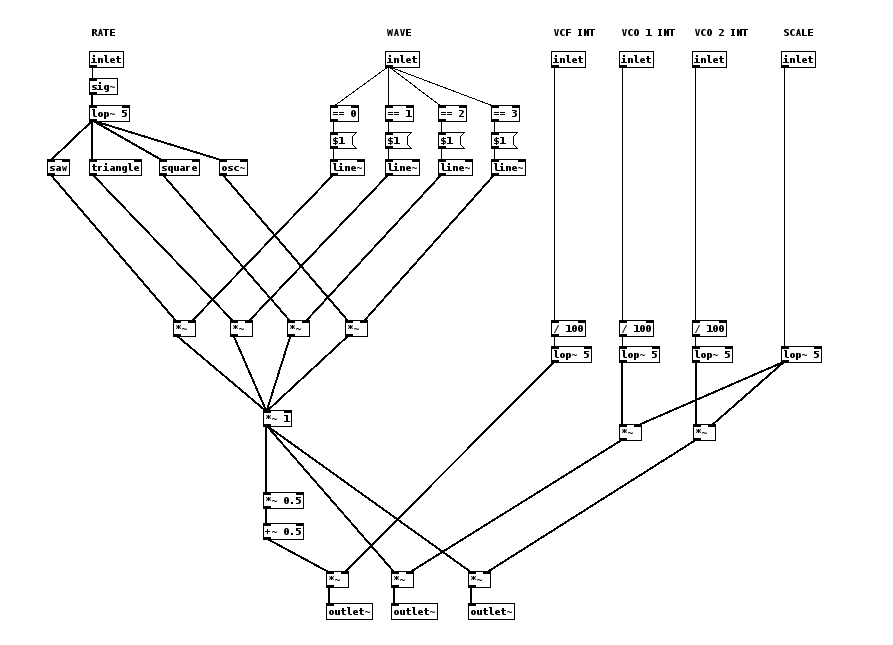
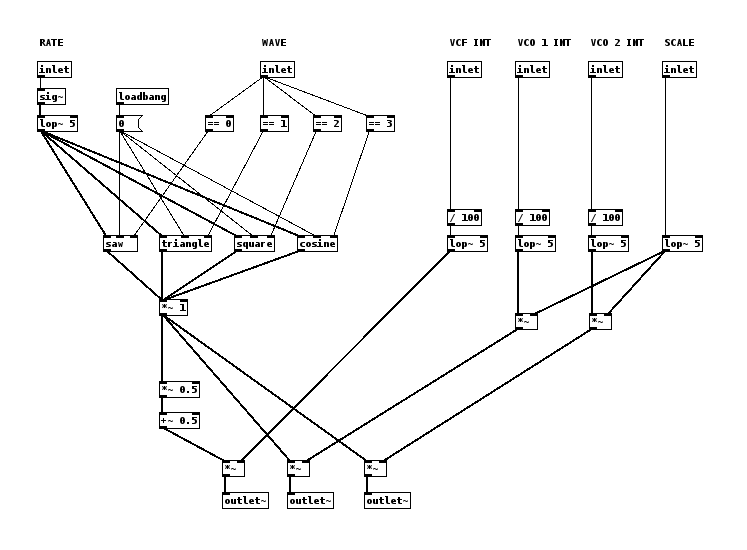
fix(LFO): Update LFO to use updated oscillators and send values to the switch~ objects.

diff --git a/README.md b/README.md
@@ -20,7 +20,7 @@ Polylogue is a polyphonic analogue synthesizer written in Pure Data for the [Cri
 
 Download the latest release:
 
-* [Patch Storage](https://patchstorage.com/polylogue/)
+* [Patchstorage](https://patchstorage.com/polylogue/)
 * [GitHub](https://github.com/francoiswnel/Polylogue/releases/latest)
 
 Installation instructions:
